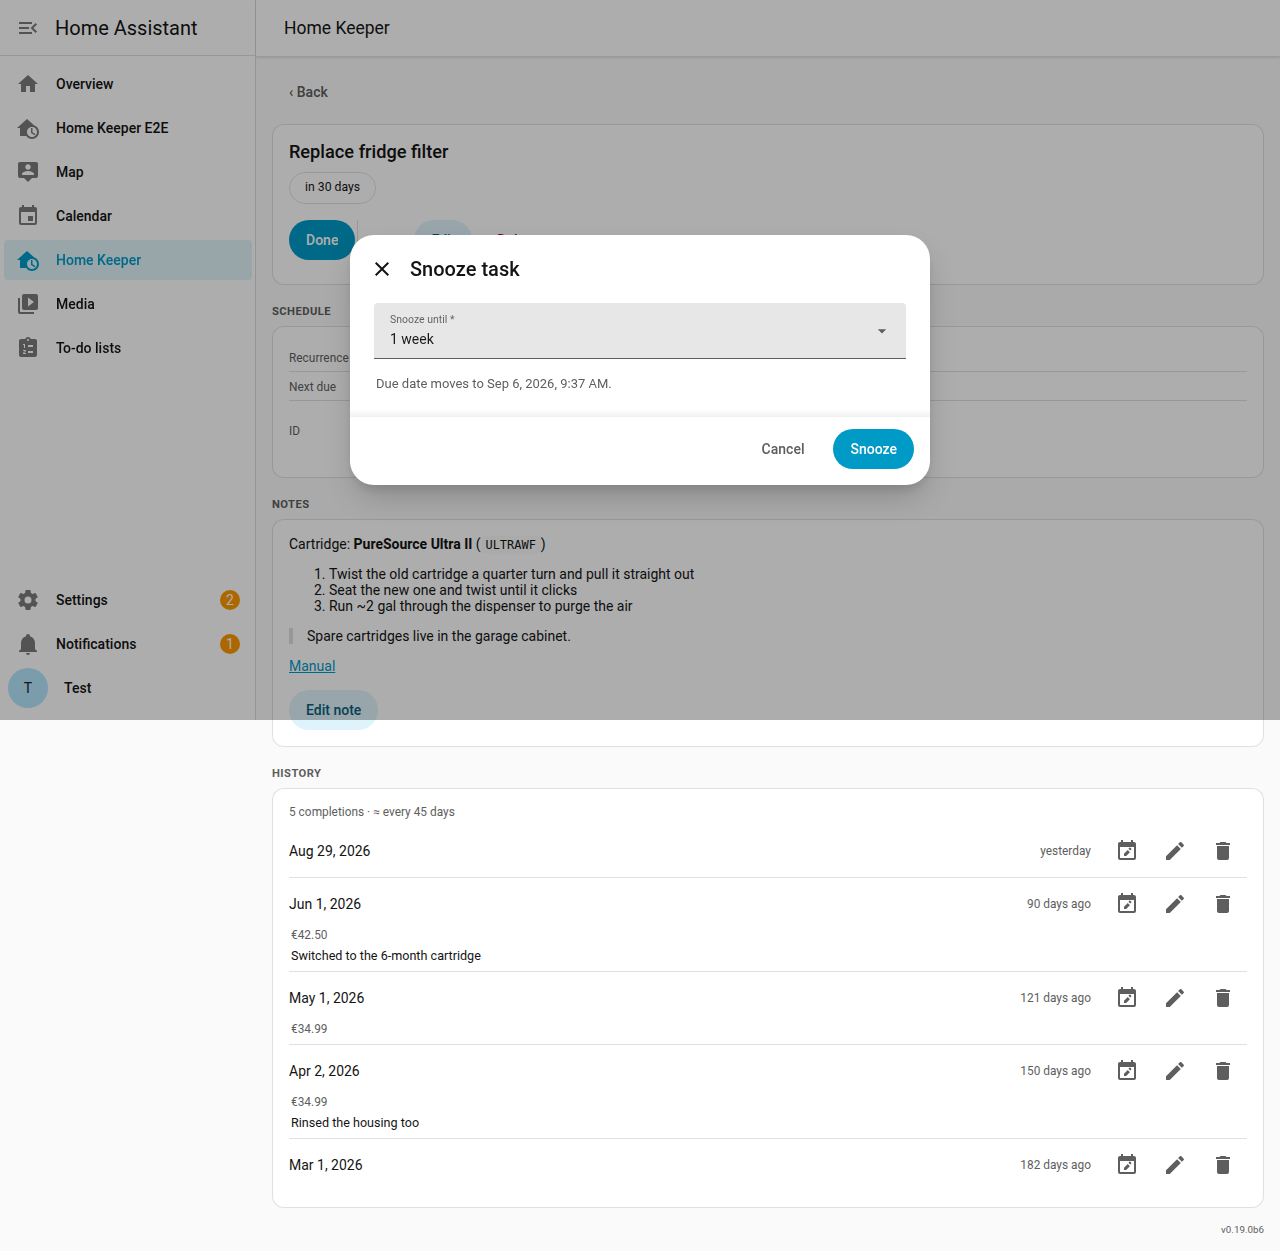
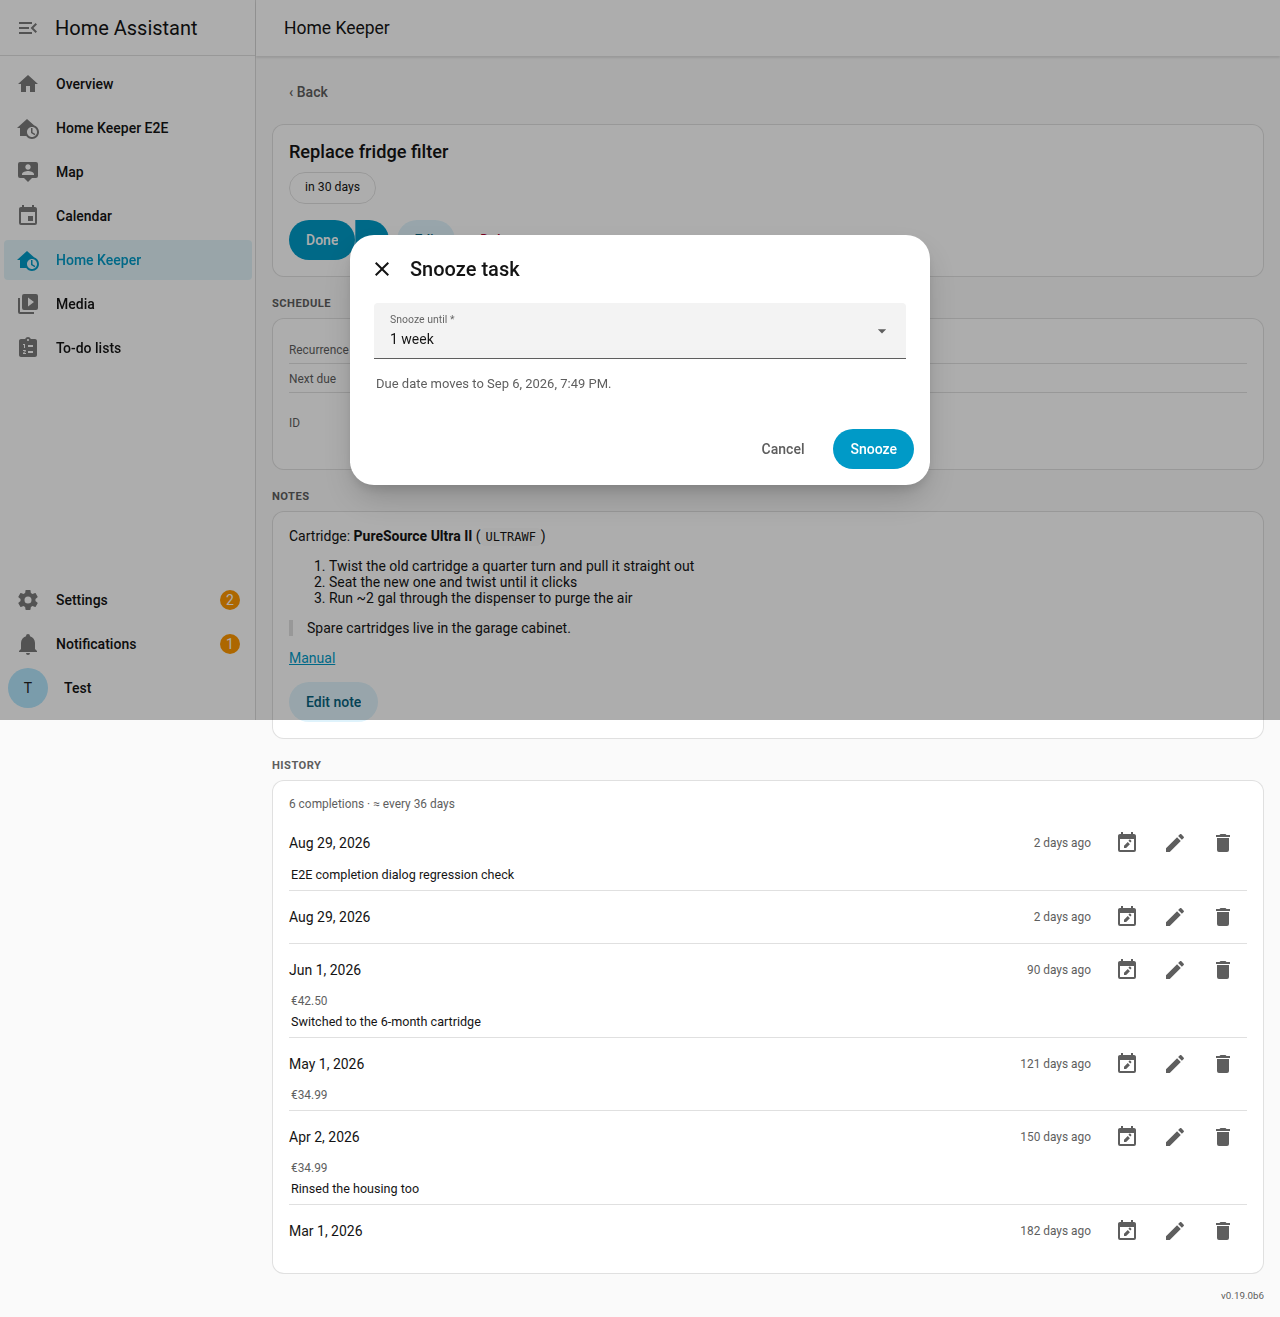
test(card): cover the card deferral, and refresh the screenshots
The captures first: the panel shots were taken before the caret moved inside Done,
so 51-53 are re-shot, and the dashboard card gains one of its own. Every one was
read back before committing — 53 is the load-bearing one, showing the skip logged
with its note while the tally above it still reads 6 completions.

The card is a new user-facing surface, so the walkthrough steps through it: the
dashboard beat now opens the row caret and lingers on the menu before framing the
closing shot.

defer.ts joins the Stryker allowlist, which is why it also gains unit tests. Its
two decisions are worth mutating: deferVerbs is the gate every surface asks before
drawing a caret, and snoozeTarget is what turns a preset or a typed date into the
instant the service is called with. The dormant and completion-blocked cases are
covered from both ends, since "offers snooze but not skip" is a rule the store
enforces and the UI has to agree with.

Claude-Session: https://claude.ai/code/session_01L7HqAW4GQCSuYdhdt9qF5i

diff --git a/custom_components/home_keeper/frontend/test/defer.test.js b/custom_components/home_keeper/frontend/test/defer.test.js
@@ -1,0 +1,116 @@
+/**
+ * The deferral rules the panel and the card now share.
+ *
+ * `deferVerbs` is the gate every surface asks before drawing a caret, and
+ * `snoozeTarget` is what turns a preset or a typed date into the instant the service
+ * is actually called with — so both decide user-visible behaviour rather than
+ * arranging pixels, and both are on the mutation surface.
+ */
+
+import { describe, expect, it } from 'vitest';
+import { deferSplit, deferVerbs, snoozeTarget } from '../src/defer.ts';
+
+const task = (over = {}) => ({
+  id: 't1',
+  name: 'Replace filter',
+  next_due: '2026-09-30T09:00:00-04:00',
+  ...over,
+});
+
+describe('deferVerbs', () => {
+  it('offers both verbs when nothing is configured', () => {
+    // The switches default *on*, so an install that predates them — every existing
+    // one — must read as "offer both" rather than as "both off".
+    expect(deferVerbs(task(), {})).toEqual({ snooze: true, skip: true });
+  });
+
+  it('withdraws each verb independently when its switch is off', () => {
+    expect(deferVerbs(task(), { allow_snooze: false })).toEqual({
+      snooze: false,
+      skip: true,
+    });
+    expect(deferVerbs(task(), { allow_skip: false })).toEqual({
+      snooze: true,
+      skip: false,
+    });
+  });
+
+  it('offers neither verb on a dormant task', () => {
+    // No due date is nothing to defer: snooze raises in the store and skip has no
+    // occurrence to move past.
+    expect(deferVerbs(task({ next_due: null }), {})).toEqual({
+      snooze: false,
+      skip: false,
+    });
+  });
+
+  it('offers snooze but not skip on a completion-blocked task', () => {
+    // The store rejects skipping a synced problem task, but a notification walk
+    // still has to be able to get past it — so snooze deliberately survives.
+    const blocked = task({ managed_by: { completion_blocked: true } });
+    expect(deferVerbs(blocked, {})).toEqual({ snooze: true, skip: false });
+  });
+});
+
+describe('deferSplit', () => {
+  it('returns Done untouched when no verb is on offer', () => {
+    const done = '<ha-button class="done-btn">Done</ha-button>';
+    expect(deferSplit(task(), done, { snooze: false, skip: false })).toBe(done);
+  });
+
+  it('returns nothing at all when there is no Done to wrap', () => {
+    // A task with no Done button has no split to hang a caret off.
+    expect(deferSplit(task(), '', { snooze: true, skip: true })).toBe('');
+  });
+
+  it('wraps Done and carries only the verbs on offer', () => {
+    const html = deferSplit(task(), '<b>Done</b>', { snooze: true, skip: false });
+    expect(html).toContain('class="hk-split"');
+    expect(html).toContain('<b>Done</b>');
+    expect(html).toContain('hk-defer-snooze');
+    expect(html).not.toContain('hk-defer-skip');
+  });
+
+  it('takes the caret class the host asks for', () => {
+    const html = deferSplit(task(), '<b>Done</b>', { snooze: true, skip: true }, 'row-caret');
+    expect(html).toContain('class="row-caret"');
+  });
+
+  it('escapes the task id it puts in the dataset', () => {
+    const html = deferSplit(
+      task({ id: 'a"><script>x</script>' }),
+      '<b>Done</b>',
+      { snooze: true, skip: true },
+    );
+    expect(html).not.toContain('<script>');
+    expect(html).toContain('&quot;');
+  });
+});
+
+describe('snoozeTarget', () => {
+  const from = new Date('2026-03-10T09:00:00Z');
+
+  it('resolves a preset relative to the given instant', () => {
+    const until = snoozeTarget({ open: true, task: task(), preset: '1d' }, from);
+    expect(until?.toISOString()).toBe('2026-03-11T09:00:00.000Z');
+  });
+
+  it('returns null for a custom snooze with no date typed yet', () => {
+    // The dialog's primary button leans on this: no target, no call.
+    expect(snoozeTarget({ open: true, task: task(), preset: 'custom' }, from)).toBeNull();
+  });
+
+  it('returns null for a custom date that will not parse', () => {
+    const s = { open: true, task: task(), preset: 'custom', customAt: 'not a date' };
+    expect(snoozeTarget(s, from)).toBeNull();
+  });
+
+  it('uses the typed date when the custom preset has one', () => {
+    const s = { open: true, task: task(), preset: 'custom', customAt: '2026-04-01 08:30:00' };
+    const until = snoozeTarget(s, from);
+    expect(until).not.toBeNull();
+    expect(until.getFullYear()).toBe(2026);
+    expect(until.getMonth()).toBe(3);
+    expect(until.getDate()).toBe(1);
+  });
+});

diff --git a/tests/e2e/screenshots-card.capture.ts b/tests/e2e/screenshots-card.capture.ts
@@ -70,6 +70,22 @@ test('capture Home Keeper card screenshots', async ({ page }) => {
   await expect(card.locator('a.hk-link-chip').first()).toBeVisible();
   await shotCard(page, card, `${OUT}/card-task-links.png`);
 
+  // 2c. Snooze and skip, reached from a card row (#268). The caret sits beside the
+  // row's Done and opens the same menu the panel offers, so the clip has to include
+  // the open menu — which overflows the card, hence a page shot around it rather
+  // than `shotCard`'s tight clip.
+  const deferRow = card.locator('.hk-split').first();
+  await deferRow.locator('.hk-row-caret').click();
+  await expect(card.locator('.hk-defer-menu .hk-defer-skip').first()).toBeVisible();
+  const cardBox = await card.locator('ha-card').first().boundingBox();
+  if (!cardBox) throw new Error('no bounding box for card-skip-snooze-menu');
+  await page.screenshot({
+    path: `${OUT}/card-skip-snooze-menu.png`,
+    clip: { ...cardBox, height: cardBox.height + 120 },
+  });
+  await page.keyboard.press('Escape');
+  await expect(card.locator('.hk-defer-menu').first()).toBeHidden();
+
   // 3. The grouped-by-status card.
   const grouped = page.locator('home-keeper-card').nth(1);
   await expect(grouped.locator('details.hk-group').first()).toBeVisible();

diff --git a/tests/e2e/walkthrough.capture.ts b/tests/e2e/walkthrough.capture.ts
@@ -635,6 +635,20 @@ async function desktopTour(page: Page, panel: Locator): Promise<void> {
   //    family's own list, now carrying the synced chores with their due dates.
   await openDashboard(page);
   await page.waitForTimeout(BEAT * 2);
+
+  // 8a. Snooze and skip reach the dashboard too. The card's Done is a dense icon
+  //     rather than the panel's pill, so the caret is a narrower sibling — but the
+  //     menu behind it, and the dialogs behind that, are the same ones. Escape out
+  //     so the closing shot below frames the cards, not a menu.
+  const hkCard = page.locator('home-keeper-card').first();
+  await expect(hkCard.locator('.hk-split').first()).toBeVisible({ timeout: 40_000 });
+  await hkCard.locator('.hk-split .hk-row-caret').first().click();
+  await expect(hkCard.locator('.hk-defer-menu .hk-defer-skip').first()).toBeVisible();
+  await page.waitForTimeout(BEAT * 3);
+  await page.keyboard.press('Escape');
+  await expect(hkCard.locator('.hk-defer-menu').first()).toBeHidden();
+  await page.waitForTimeout(BEAT);
+
   const familyCard = page
     .locator('hui-todo-list-card, todo-list-card')
     .filter({ hasText: 'Family chores' })
